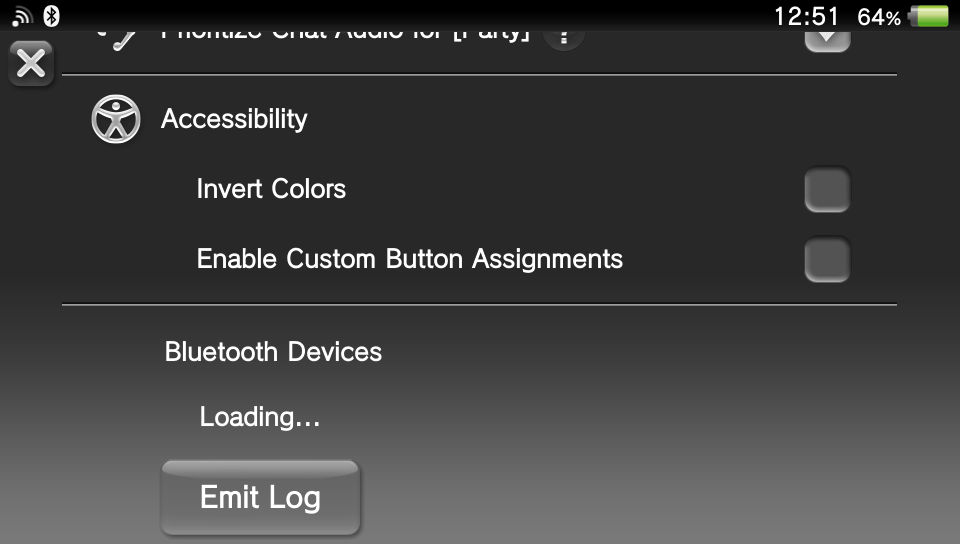
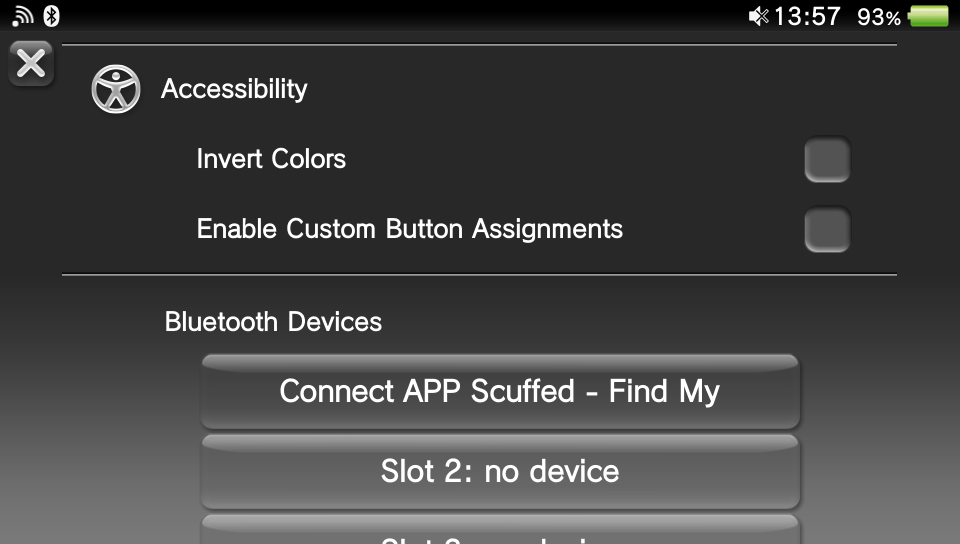
List devices in quick menu (#112)
* Get connection state for each device initially

First state of the quick menu will show these states.

* load_everything_todo()

* style

* style: rename

* static buttons

* Done adding and aligning buttons

* reset labels on close

* Spread out todos

* style: shift buttons (indent)

* todo

* CRASH

3:0x9cd098e26c7c132a:0x8c2ff5fd:[coredump] start ID=NPXS19999

* commented out bug

* AI fixed

* todos

* Todos

* zero

* on_press knows if empty

* todo

* Works but bug with Discon button invis txt

* Fix

* Update screenshot

* style: moved code block

* resolved todo

Changed region(s): [[0.0625, 0.25, 0.9375, 1.0], [0.0625, 0.0, 0.9688, 0.375], [0.0, 0.0, 0.0312, 0.0312]]

diff --git a/module_user/src/quickmenu.c b/module_user/src/quickmenu.c
@@ -26,62 +26,94 @@ this program. If not, see <https://www.gnu.org/licenses/>.
 #include "log.h"
 #include "vqmbt.h"
 
+#define BUTTON_LABEL_MAX (sizeof(((VqmbtDeviceInfo*)0)->name) + 16)
+
+static VqmbtDeviceInfo devices[VQMBT_MAX_DEVICES];  // TODO locking/semaphore?
+
 // Widget IDs (prefixed because they must be unique across all plugins).
 #define ID_SEPARATOR MODULE_NAME "Separator"
 #define ID_PLANE_ROOT MODULE_NAME "PlaneRoot"
 #define ID_SECTION_TEXT MODULE_NAME "SectionText"
-#define ID_LOADING_TEXT MODULE_NAME "LoadingText"
-#define ID_BUTTON MODULE_NAME "Button"
+static const char* const ID_BUTTONS[VQMBT_MAX_DEVICES] = {
+    MODULE_NAME "Button0", MODULE_NAME "Button1", MODULE_NAME "Button2", MODULE_NAME "Button3",
+    MODULE_NAME "Button4", MODULE_NAME "Button5", MODULE_NAME "Button6", MODULE_NAME "Button7",
+};
+_Static_assert(sizeof(ID_BUTTONS) / sizeof(ID_BUTTONS[0]) == VQMBT_MAX_DEVICES,
+               "ID_BUTTONS size must match VQMBT_MAX_DEVICES");
 
 /**
- * Called when the user taps on the button. Emits a log message.
+ * Connect or disconnect the device associated with the button.
+ *
+ * Called when the user taps on the button.
+ *
+ * TODO:
+ * - Relabel button "Connecting <name>...".
+ * - when user taps a button disable all buttons and wait for callback.
  */
 BUTTON_HANDLER(on_press) {
     (void)id;
     (void)hash;
     (void)eventId;
-    (void)userDat;
+    int idx = (int)(intptr_t)userDat;
 
-    LOG_DEBUG(0, "Calling kernel functions.");
+    VqmbtDeviceInfo* dev = &devices[idx];
 
-    VqmbtDeviceInfo devices[VQMBT_MAX_DEVICES];  // TODO file-scope like in kernel?
-    VqmbtDeviceInfo* dev;
-    int count = kvqmbtGetPairedDevices(devices, VQMBT_MAX_DEVICES);
-    if (count > 0) {
-        LOG_DEBUG(0, "count=%d", count);
-        int conn_disconn_idx = 0;
-        // Log.
-        for (int idx = 0; idx < count; idx++) {
-            dev = &devices[idx];
-            LOG_DEBUG(0, "idx=%d name=\"%s\" mac0=0x%08X mac1=0x%08X", idx, dev->name, dev->mac0, dev->mac1);
-            if (sceClibStrncmp(dev->name, "APP Scuffed", 11) == 0) {
-                LOG_DEBUG(0, "Set conn_disconn_dev to %d for device \"%s\"", idx, dev->name);
-                conn_disconn_idx = idx;
-            }
-        }
-        // Connect/disconnect.
-        dev = &devices[conn_disconn_idx];
-        if (kvqmbtIsConnected(dev->mac0, dev->mac1)) {
-            LOG_DEBUG(0, "Disconnecting \"%s\"", dev->name);
-            kvqmbtDisconnectDevice(dev->mac0, dev->mac1);
-        } else {
-            LOG_DEBUG(0, "Connecting \"%s\"", dev->name);
-            kvqmbtConnectDevice(dev->mac0, dev->mac1);
-        }
-    } else {
-        LOG_ERROR("kvqmbtGetPairedDevices returned error: 0x%08X", count);
+    // Do nothing if slot is empty.
+    if ((dev->mac0 | dev->mac1) == 0) {  // TODO make more robust, use `static int devices_count`?
+        LOG_DEBUG(0, "button idx=%d is empty: no-op", idx);
+        return;
     }
 
-    LOG_DEBUG(0, "Done calling kernel functions.");
+    if (dev->state == 5 || dev->state == 6) {
+        LOG_DEBUG(0, "Disconnecting \"%s\"", dev->name);
+        kvqmbtDisconnectDevice(dev->mac0, dev->mac1);
+    } else {
+        LOG_DEBUG(0, "Connecting \"%s\"", dev->name);
+        kvqmbtConnectDevice(dev->mac0, dev->mac1);
+    }
 }
 
 /**
  * Called when the quick menu is opened by the user.
+ *
+ * TODO:
+ * - Performance? delay opening qm? async?
+ * - Hide empty slots and resize plane to eliminate ghost scrolling.
  */
 ONLOAD_HANDLER(on_load) {
     (void)id;
 
     LOG_DEBUG(0, "Quick menu opened.");
+
+    // Zero the struct array to prevent ghost data.
+    for (int i = 0; i < (int)sizeof(devices); i++) ((unsigned char*)devices)[i] = 0;
+
+    // Query kernel.
+    VqmbtDeviceInfo* dev;
+    int count = kvqmbtGetPairedDevices(devices, VQMBT_MAX_DEVICES);
+    if (count < 0) {
+        LOG_ERROR("kvqmbtGetPairedDevices returned error: 0x%08X", count);
+        return;
+    }
+    if (count < 1) {
+        LOG_DEBUG(0, "No paired devices.");
+        return;
+    }
+    LOG_DEBUG(0, "count=%d", count);
+
+    // Update button labels.
+    for (int idx = 0; idx < count; idx++) {
+        dev = &devices[idx];
+        LOG_DEBUG(0, "idx=%d name=\"%s\" mac0=0x%08X mac1=0x%08X", idx, dev->name, dev->mac0, dev->mac1);
+        const char* id = ID_BUTTONS[idx];
+        char label[BUTTON_LABEL_MAX];
+        if (dev->state == 5 || dev->state == 6) {  // TODO dedupe magic numbers with enum?
+            sceClibSnprintf(label, sizeof(label), "Disconnect %s", dev->name);
+        } else {
+            sceClibSnprintf(label, sizeof(label), "Connect %s", dev->name);
+        }
+        QuickMenuRebornSetWidgetLabel(id, label);
+    }
 }
 
 /**
@@ -91,12 +123,43 @@ void on_unload(const char* id) {
     (void)id;
 
     LOG_DEBUG(0, "Quick menu closed.");
+
+    // Reset button labels.
+    for (int idx = 0; idx < VQMBT_MAX_DEVICES; idx++) {
+        const char* id = ID_BUTTONS[idx];
+        char label[BUTTON_LABEL_MAX];
+        sceClibSnprintf(label, sizeof(label), "Slot %d: no device", idx + 1);
+        QuickMenuRebornSetWidgetLabel(id, label);
+    }
+}
+
+/**
+ * Add connect/disconnect buttons to quick menu. One button per paired device.
+ *
+ * For now buttons are fixed and so is the plane.
+ *
+ * TODO:
+ * - callback: relabel button with new state. Surface error in button as close/reopen resets labels
+ * - button_reset() button_disable() button_enable() functions
+ */
+void add_buttons(void) {
+    for (int idx = 0; idx < VQMBT_MAX_DEVICES; idx++) {
+        const char* id = ID_BUTTONS[idx];
+        QuickMenuRebornRegisterWidget(id, ID_PLANE_ROOT, button);
+        QuickMenuRebornSetWidgetSize(id, 600, 75, 0, 0);
+        QuickMenuRebornSetWidgetPosition(id, 20, 243 - (idx * 80), 0, 0);
+        QuickMenuRebornSetWidgetColor(id, 1, 1, 1, 1);
+        char label[BUTTON_LABEL_MAX];
+        sceClibSnprintf(label, sizeof(label), "Slot %d: no device", idx + 1);
+        QuickMenuRebornSetWidgetLabel(id, label);
+        QuickMenuRebornRegisterEventHanlder(id, QMR_BUTTON_RELEASE_ID, on_press, (void*)(intptr_t)idx);
+    }
 }
 
 /**
  * Loads the plugin's quick menu items.
  *
- * TODOs:
+ * TODO:
  * - Add function to calculate position from top left instead of center.
  * - Pixel perfect alignment.
  * - If kernel plugin isn't loaded notify user.
@@ -107,46 +170,33 @@ void quickmenu_start(void) {
 
     // Add the root plane that holds all other items.
     QuickMenuRebornRegisterWidget(ID_PLANE_ROOT, NULL, plane);
-    QuickMenuRebornSetWidgetSize(ID_PLANE_ROOT, SCE_PLANE_WIDTH, 200, 0, 0);
+    QuickMenuRebornSetWidgetSize(ID_PLANE_ROOT, SCE_PLANE_WIDTH, 700, 0, 0);
     QuickMenuRebornSetWidgetColor(ID_PLANE_ROOT, 1, 1, 1, 0);
 
     // Add section heading text.
     QuickMenuRebornRegisterWidget(ID_SECTION_TEXT, ID_PLANE_ROOT, text);
     QuickMenuRebornSetWidgetSize(ID_SECTION_TEXT, SCE_PLANE_WIDTH, 50, 0, 0);
-    QuickMenuRebornSetWidgetPosition(ID_SECTION_TEXT, -206, 62, 0, 0);
+    QuickMenuRebornSetWidgetPosition(ID_SECTION_TEXT, -206, 312, 0, 0);
     QuickMenuRebornSetWidgetColor(ID_SECTION_TEXT, 1, 1, 1, 1);
     QuickMenuRebornSetWidgetLabel(ID_SECTION_TEXT, "Bluetooth Devices");
 
-    // TODO one button per device. Depending on state label it "Connect <device>" or "Disconnect <device>".
-    // TODO when user taps a button disable all buttons and wait for callback.
-    // TODO refresh button labels and enable.
-
-    // Add placeholder "Loading" text.
-    QuickMenuRebornRegisterWidget(ID_LOADING_TEXT, ID_PLANE_ROOT, text);
-    QuickMenuRebornSetWidgetSize(ID_LOADING_TEXT, SCE_PLANE_WIDTH, 50, 0, 0);
-    QuickMenuRebornSetWidgetPosition(ID_LOADING_TEXT, -220, -3, 0, 0);
-    QuickMenuRebornSetWidgetColor(ID_LOADING_TEXT, 1, 1, 1, 1);
-    QuickMenuRebornSetWidgetLabel(ID_LOADING_TEXT, "Loading...");
-
-    // Add button to test emitting logs.
-    QuickMenuRebornRegisterWidget(ID_BUTTON, ID_PLANE_ROOT, button);
-    QuickMenuRebornSetWidgetSize(ID_BUTTON, 200, 75, 0, 0);
-    QuickMenuRebornSetWidgetPosition(ID_BUTTON, -220, -83, 0, 0);
-    QuickMenuRebornSetWidgetColor(ID_BUTTON, 1, 1, 1, 1);
-    QuickMenuRebornSetWidgetLabel(ID_BUTTON, "Emit Log");
-    QuickMenuRebornRegisterEventHanlder(ID_BUTTON, QMR_BUTTON_RELEASE_ID, on_press, NULL);
+    // Add device slot buttons.
+    add_buttons();
 
     // Register handlers.
-    QuickMenuRebornAssignOnLoadHandler(on_load, ID_PLANE_ROOT);
-    QuickMenuRebornAssignOnDeleteHandler(on_unload, ID_PLANE_ROOT);
+    const char* last = ID_BUTTONS[VQMBT_MAX_DEVICES - 1];
+    QuickMenuRebornAssignOnLoadHandler(on_load, last);
+    QuickMenuRebornAssignOnDeleteHandler(on_unload, last);
 }
 
 /**
  * Unloads the plugin's quick menu items.
  */
 void quickmenu_stop(void) {
-    QuickMenuRebornUnregisterWidget(ID_BUTTON);
-    QuickMenuRebornUnregisterWidget(ID_LOADING_TEXT);
+    for (int idx = 0; idx < VQMBT_MAX_DEVICES; idx++) {
+        const char* id = ID_BUTTONS[idx];
+        QuickMenuRebornUnregisterWidget(id);
+    }
     QuickMenuRebornUnregisterWidget(ID_SECTION_TEXT);
     QuickMenuRebornUnregisterWidget(ID_PLANE_ROOT);
     QuickMenuRebornRemoveSeparator(ID_SEPARATOR);

diff --git a/module_kernel/src/bluetooth.c b/module_kernel/src/bluetooth.c
@@ -31,7 +31,7 @@ this program. If not, see <https://www.gnu.org/licenses/>.
 #include "log.h"
 #include "vqmbt.h"
 
-static SceBtRegisteredInfo paired_devices[VQMBT_MAX_DEVICES];
+static SceBtRegisteredInfo paired_devices[VQMBT_MAX_DEVICES];  // TODO locking/semaphore?
 
 /**
  * Check if the device is currently connected.
@@ -113,8 +113,7 @@ int kvqmbtGetPairedDevices(VqmbtDeviceInfo* info, int info_size) {
     for (int i = 0; i < (int)sizeof(paired_devices); i++) ((unsigned char*)paired_devices)[i] = 0;
 
     // Populate file-scoped array with all currently paired devices.
-    int mac0 = 0, mac1 = 0;
-    int count = ksceBtGetRegisteredInfo(mac0, mac1, paired_devices, info_size);
+    int count = ksceBtGetRegisteredInfo(0, 0, paired_devices, info_size);
     if (count < 0) {
         LOG_ERROR("ksceBtGetRegisteredInfo returned error: 0x%08X", count);
         return VQMBT_ERROR_KERNEL_SIDE;
@@ -122,7 +121,11 @@ int kvqmbtGetPairedDevices(VqmbtDeviceInfo* info, int info_size) {
     LOG_DEBUG(0, "ksceBtGetRegisteredInfo returned count=%d info_size=%d max=%d", count, info_size, VQMBT_MAX_DEVICES);
 
     // Copy each record across the kernel/user boundary.
+    int state = 0;
     for (int idx = 0; idx < count; idx++) {
+        // Initialize user side.
+        VqmbtDeviceInfo dev = {0};
+
         // Get kernel side.
         SceBtRegisteredInfo* sceDev = &paired_devices[idx];
         const unsigned char* mac = (const unsigned char*)&sceDev->mac;
@@ -141,14 +144,16 @@ int kvqmbtGetPairedDevices(VqmbtDeviceInfo* info, int info_size) {
                 sceDev->unk5[row + 12], sceDev->unk5[row + 13], sceDev->unk5[row + 14], sceDev->unk5[row + 15]);
         }
 
-        // Populate user side.
-        VqmbtDeviceInfo dev = {0};
-        // name
+        // Set name and uint macs.
         strncpy(dev.name, sceDev->name, sizeof(dev.name) - 1);
         dev.name[sizeof(dev.name) - 1] = '\0';
-        // mac
         dev.mac0 = ((unsigned int)mac[3] << 24) | ((unsigned int)mac[2] << 16) | ((unsigned int)mac[1] << 8) | mac[0];
         dev.mac1 = ((unsigned int)mac[5] << 8) | mac[4];
+
+        // Get/set state.
+        state = ksceBtGetConnectingInfo(dev.mac0, dev.mac1);  // 1 == unknown/disconnected; 5/6 == connected
+        LOG_DEBUG(0, "ksceBtGetConnectingInfo(mac0=%08X, mac1=%08X) returned state=%d", dev.mac0, dev.mac1, state);
+        dev.state = state;
 
         // Export to user space.
         int ret = ksceKernelCopyToUser(&info[idx], &dev, sizeof(dev));

diff --git a/include/vqmbt.h b/include/vqmbt.h
@@ -35,8 +35,9 @@ typedef struct VqmbtDeviceInfo {
     char name[128];
     unsigned int mac0;
     unsigned int mac1;
+    int state;
 } VqmbtDeviceInfo;
-VITASDK_BUILD_ASSERT_EQ(0x88, VqmbtDeviceInfo);
+VITASDK_BUILD_ASSERT_EQ(0x8C, VqmbtDeviceInfo);
 
 int kvqmbtGetPairedDevices(VqmbtDeviceInfo* info, int info_size);
 